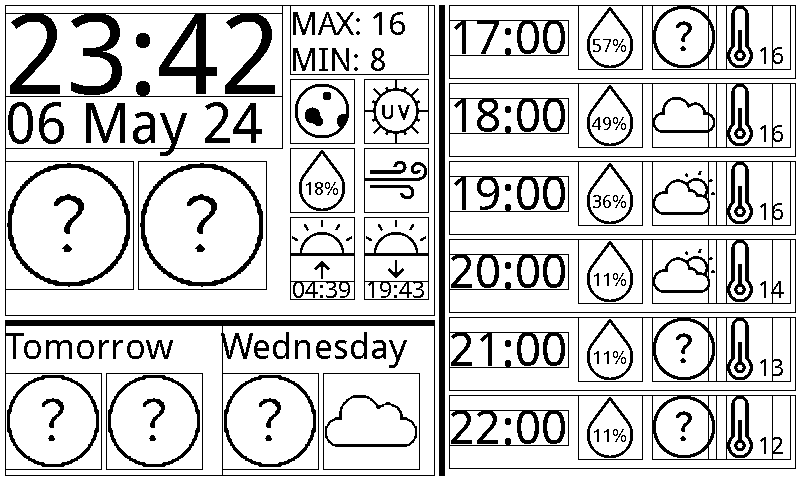
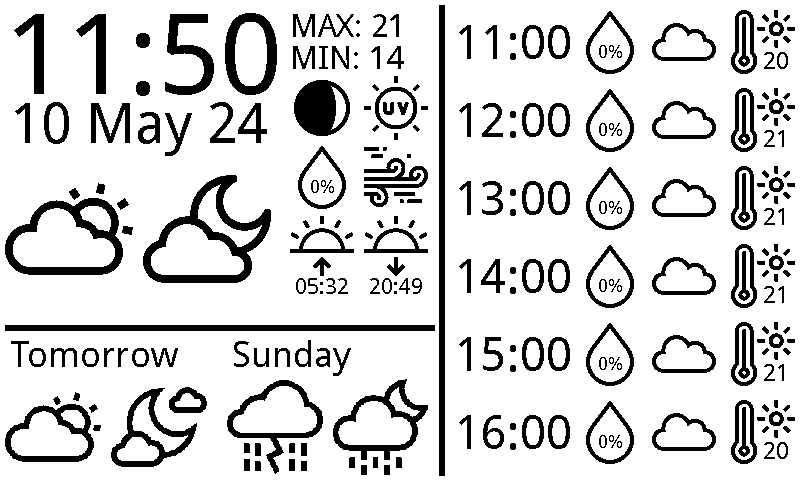
update instructions

Changed region(s): [[0.0, 0.0, 1.0, 1.0]]

diff --git a/draw.py b/draw.py
@@ -16,9 +16,9 @@ import asyncio
 # Set the mode of the script
 construction=False # set to True for construction mode
 testing=True # set to False for live display
-screensavepath = 'screen_image/img2display.png'
-funmode = True # set to False for boring mode
+funmode = False # set to False for boring mode
 
+screensavepath = 'screen_image/img2display.png'
 
 # Set the path to the e-ink display library
 picdir = os.path.join(os.path.dirname(os.path.dirname(os.path.realpath(__file__))), 'e-ink_weatherdisplay/e-Paper/RaspberryPi_JetsonNano/python/pic/')

diff --git a/README.md b/README.md
@@ -1,6 +1,9 @@
 # e-ink_weatherdisplay
 A framework to display weather data on e-ink screen.
 
+## Example display
+![screen_image/img2display.example.png](screen_image/img2display.example.png)
+
 ## Accuweather api
 I tried several free apis to get the weather data I needed, these were either at too low resolution in time, low spacial resolution, or didn't offer the outputs I wanted.
 Eventually I settled on accuweather.
@@ -9,16 +12,16 @@ There is the drawback that the api only allows 50 calls per day, but this is ple
 ### API access
 To get access to the api you will need to set up your own api key.
 The accuweather developer website can be found here:
-(https://developer.accuweather.com/)[https://developer.accuweather.com/]
+[https://developer.accuweather.com/](https://developer.accuweather.com/)
 
 The easiest place to start setting up is here:
-(https://developer.accuweather.com/getting-started)[https://developer.accuweather.com/getting-started]
+[https://developer.accuweather.com/getting-started](https://developer.accuweather.com/getting-started)
 
 I set up a new app with the `Core Weather Limited Trial` product added.
 This allows 50 API calls per day.
 
 ### API instructions:
-1. Go to (https://developer.accuweather.com/getting-started)[https://developer.accuweather.com/getting-started] and set up a new developer account.
+1. Go to [https://developer.accuweather.com/getting-started](https://developer.accuweather.com/getting-started) and set up a new developer account.
 2. Create a new app, and be sure to select the `Core Weather Limited Trial` product from the list.
 3. Find the unique API key for the app.
 4. Create the file `my_accuweather_api_key.txt`.
@@ -28,7 +31,7 @@ This allows 50 API calls per day.
 ## Location
 You will want to set this up with the latitude and longitude of wherever you want the weather data to point to.
 ### Location instructions
-1. Head to (https://www.latlong.net/)[https://www.latlong.net/], and put in the location, and it should return a latitude and longitude.
+1. Head to [https://www.latlong.net/](https://www.latlong.net/), and put in the location, and it should return a latitude and longitude.
 2. Create the file `my_lat_lon.csv`.
 3. In the newly created file `my_lat_lon.csv` paste in the location_name, latitude, and longitude.
    You may follow the example as given in `my_lat_lon.csv.example`.
@@ -36,7 +39,7 @@ You will want to set this up with the latitude and longitude of wherever you wan
 
 ## E-ink screen
 I used a waveshare 800x400 e-ink screen, originally purchased here:
-[https://www.waveshare.com/7.5inch-e-paper-hat.htm](https://www.waveshare.com/7.5inch-e-paper-hat.htm)
+(https://www.waveshare.com/7.5inch-e-paper-hat.htm)[https://www.waveshare.com/7.5inch-e-paper-hat.htm]
 The code to draw on the screen is not very flexible as it was quicker to use pixel-based adjustments for drawing the items on screen.
 If you're using a different screen, much of the code should be re-usable, but I cannot verify that items will be placed nicely.
 
@@ -53,11 +56,22 @@ To keep the repo tidy, the following was removed:
  - Jetson nano code
 
 See the original repo here:
-[https://github.com/waveshareteam/e-Paper](https://github.com/waveshareteam/e-Paper)
+(https://github.com/waveshareteam/e-Paper)[https://github.com/waveshareteam/e-Paper]
 
 
 ## Icons
-Icon files have been gratefully downloaded from (https://www.flaticon.com/)[https://www.flaticon.com/].
+Icon files have been gratefully downloaded from [https://www.flaticon.com/](https://www.flaticon.com/).
+These are used to display the weather icons to sceen.
+Examples:
+<div align="center">
+
+![icons/pack1/64/png/062-sun-1.png](icons/pack1/64/png/062-sun-1.png)
+![icons/pack1/64/png/065-moon.png](icons/pack1/64/png/065-moon.png)
+![icons/pack1/64/png/072-rain.png](icons/pack1/64/png/072-rain.png)
+![icons/pack1/64/png/091-cloudy.png](icons/pack1/64/png/091-cloudy.png)
+![icons/pack1/64/png/095-cloud-2.png](icons/pack1/64/png/095-cloud-2.png)
+
+</div>
 
 
 ## How to use
@@ -72,6 +86,17 @@ Icon files have been gratefully downloaded from (https://www.flaticon.com/)[http
 6. Note that depending on when you initialise the code, the forecast might not capture the current hour.
    Simply wait and the program will correct itself within the hour.
 
+
+## Options
+There are three options for the user to modify.
+These are found at the top of `draw.py`.
+
+1. construction - this sets the items placed on the screen to be surrounded with a black bounding box to highlight the edges.
+   This is useful to turn on when continuing development.
+2. testing - if testing mode is `true`, then the output will be piped to `screen_image/img2display.png`.
+   If `false`, then the img should be piped to the e-ink screen.
+   This is for development and testing purposes.
+3. funmode - if `true`, then little scenes will be added depending on the day.
+   By default this is set to `false`.
+
 Enjoy!
-
-
